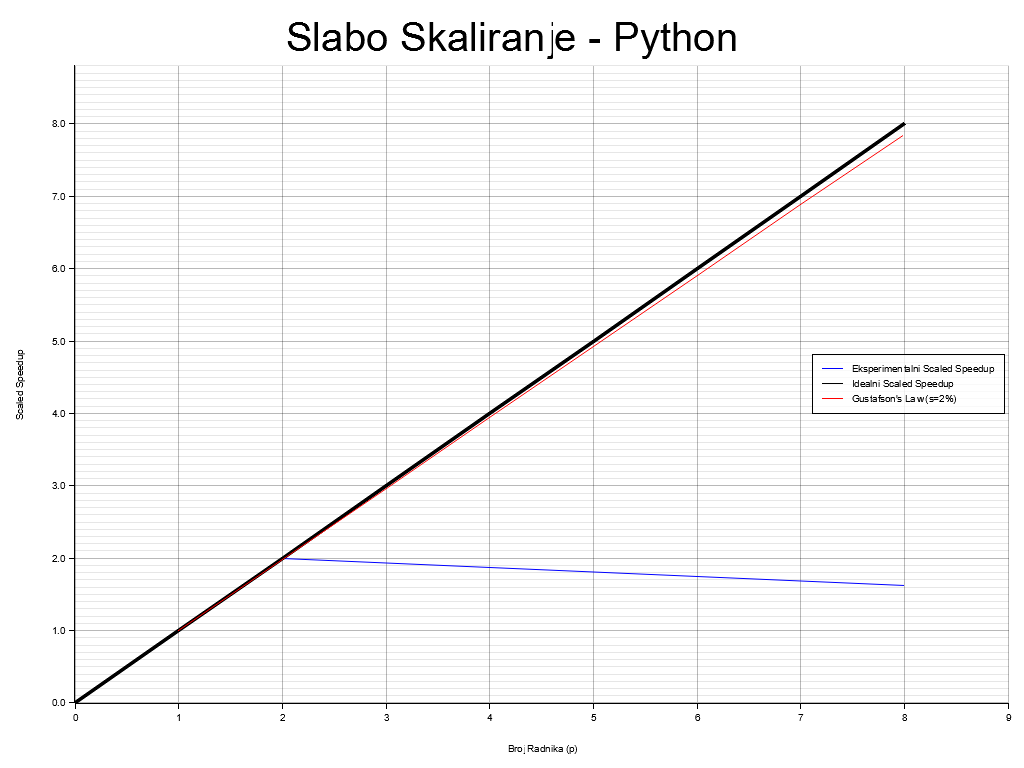
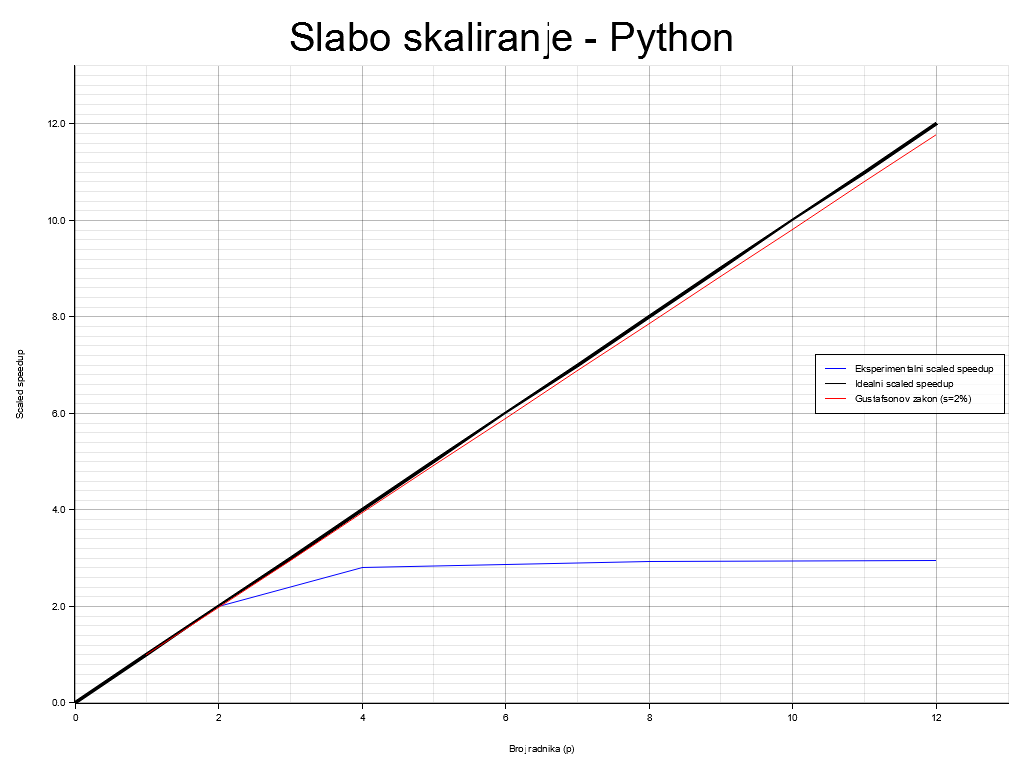
fix: mesh bugfixes

Changed region(s): [[0.0625, 0.0312, 1.0, 0.9062], [0.5, 0.9688, 0.5625, 1.0], [0.0, 0.5, 0.0312, 0.5312]]

diff --git a/rust/src/p2p/mesh_node.rs b/rust/src/p2p/mesh_node.rs
@@ -217,15 +217,13 @@ impl MeshNode {
         shuffled_peers.shuffle(&mut rng);
 
         let mut successfully_connected = Vec::new();
-        let max_peers = self.network.peer_count_limit();
 
-        let target_outgoing = std::cmp::max(1, max_peers / 2);
+        // ln(n) is enough, approx. 20-50 nodes, 3 is enough
+        let target_outgoing = 3;
 
         println!(
-            "Connection strategy: target {}/{} outgoing (leaves room for {} incoming)",
-            target_outgoing,
-            max_peers,
-            max_peers - target_outgoing
+            "Connecting to {} peers to ensure graph connectivity",
+            target_outgoing
         );
 
         for peer in shuffled_peers {
@@ -233,11 +231,8 @@ impl MeshNode {
                 continue;
             }
 
-            if self.network.peer_count() >= target_outgoing {
-                println!(
-                    "Reached target outgoing connections ({}), stopping",
-                    target_outgoing
-                );
+            if successfully_connected.len() >= target_outgoing {
+                println!("Reached target connections ({}), stopping", target_outgoing);
                 break;
             }
 
@@ -255,6 +250,12 @@ impl MeshNode {
                 }
             }
         }
+
+        println!(
+            "Successfully connected to {} out of {} target peers",
+            successfully_connected.len(),
+            target_outgoing
+        );
 
         if let Some(peer_id) = successfully_connected.first() {
             println!("Requesting blockchain from mesh peer: {}", peer_id);

diff --git a/visualizer/src/main.rs b/visualizer/src/main.rs
@@ -8,7 +8,7 @@ use std::error::Error;
 use std::fs;
 
 const OUTPUT_DIR_STRONG: &str = "../output";
-const OUTPUT_DIR_WEAK: &str = "../weak_scaling/output";
+const OUTPUT_DIR_WEAK: &str = "../weak_scaling_blocks/output";
 
 const STRONG_SCALING_DIFFICULTY: usize = 5;
 const SEQUENTIAL_PORTION: f64 = 0.02;
